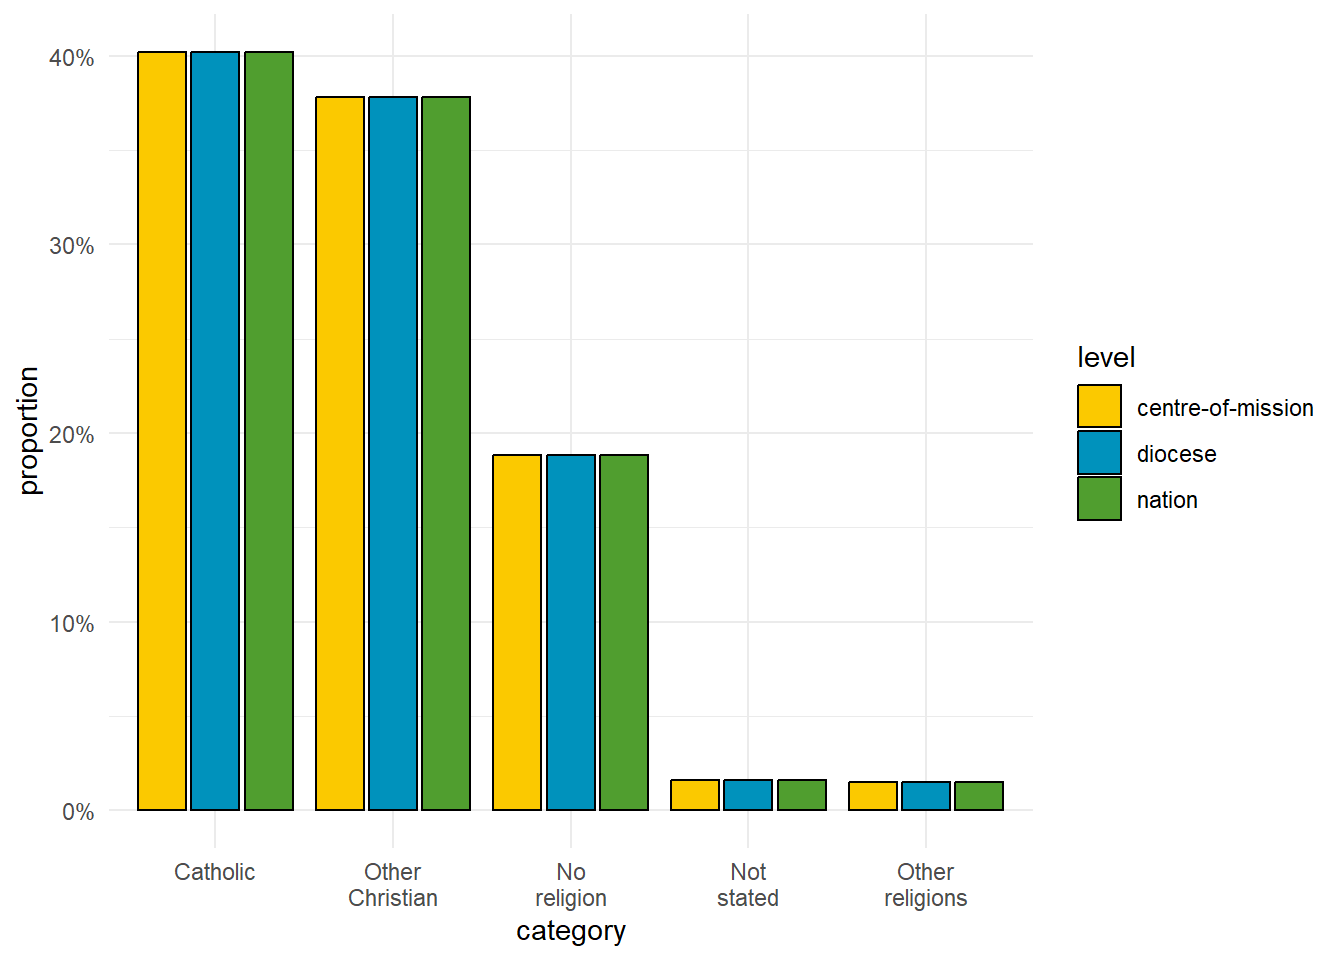
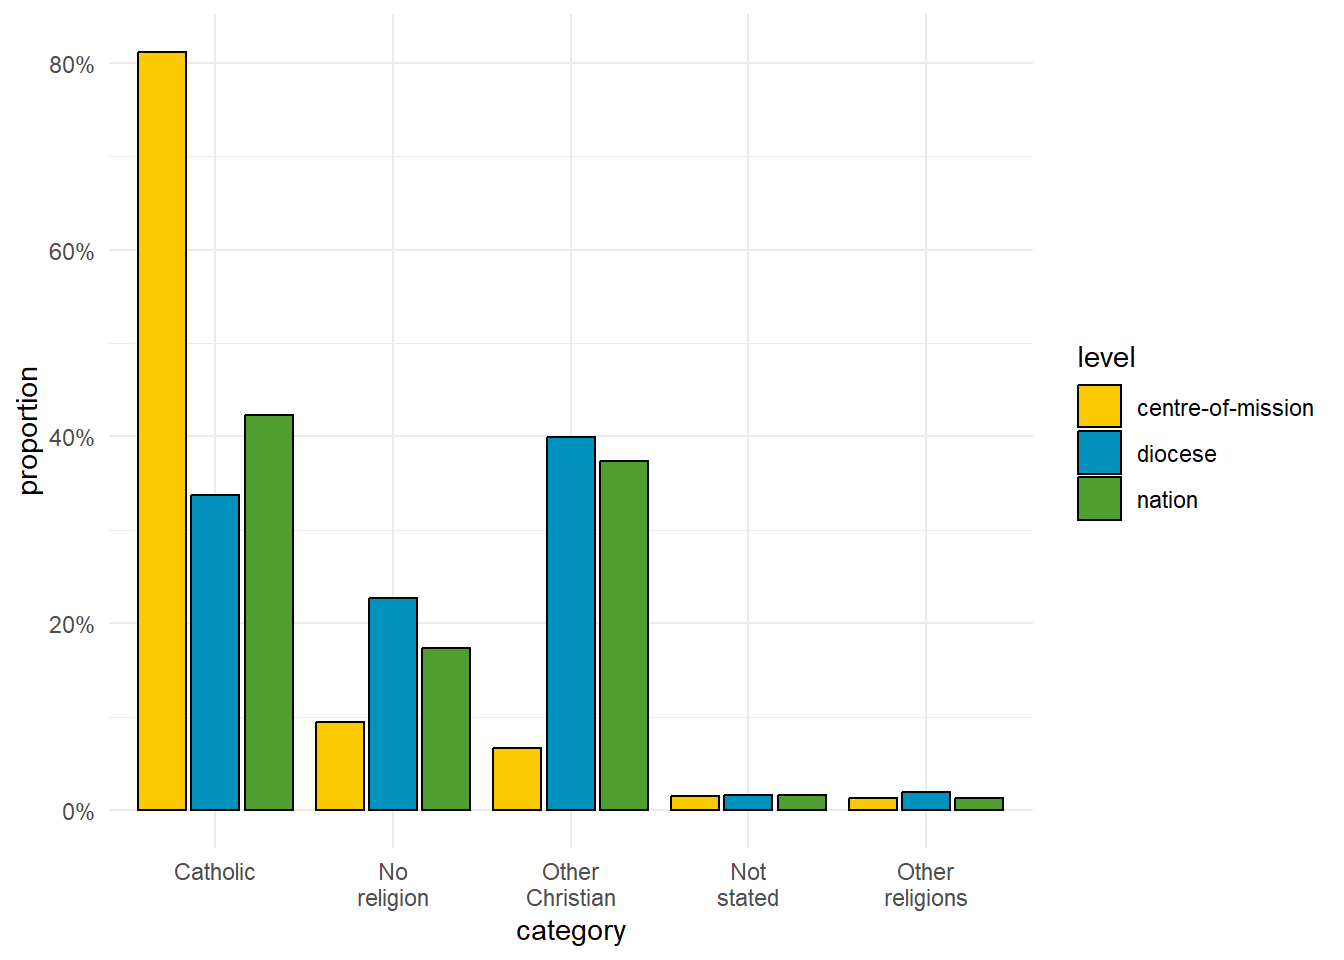
fixing poorly grouped unduplication of religion/ethnicity

diff --git a/R/02_ordering-and-grouping-categories.html b/R/02_ordering-and-grouping-categories.html
@@ -2,7 +2,7 @@
 <html xmlns="http://www.w3.org/1999/xhtml" lang="en" xml:lang="en"><head>
 
 <meta charset="utf-8">
-<meta name="generator" content="quarto-1.3.450">
+<meta name="generator" content="quarto-1.3.353">
 
 <meta name="viewport" content="width=device-width, initial-scale=1.0, user-scalable=yes">
 
@@ -196,11 +196,12 @@ household-composition household-deprivation              religion
 <span id="cb6-36"><a href="#cb6-36" aria-hidden="true" tabindex="-1"></a>              </span>
 <span id="cb6-37"><a href="#cb6-37" aria-hidden="true" tabindex="-1"></a>              out</span>
 <span id="cb6-38"><a href="#cb6-38" aria-hidden="true" tabindex="-1"></a>              }),</span>
-<span id="cb6-39"><a href="#cb6-39" aria-hidden="true" tabindex="-1"></a>          <span class="at">.by =</span> category</span>
+<span id="cb6-39"><a href="#cb6-39" aria-hidden="true" tabindex="-1"></a>          <span class="at">.by =</span> <span class="fu">c</span>(category, level)</span>
 <span id="cb6-40"><a href="#cb6-40" aria-hidden="true" tabindex="-1"></a>  ) <span class="sc">|&gt;</span> </span>
 <span id="cb6-41"><a href="#cb6-41" aria-hidden="true" tabindex="-1"></a>    <span class="fu">group_by</span>(statistic, level) <span class="sc">|&gt;</span> </span>
-<span id="cb6-42"><a href="#cb6-42" aria-hidden="true" tabindex="-1"></a>    <span class="fu">mutate</span>(<span class="at">proportion =</span> count <span class="sc">/</span> <span class="fu">sum</span>(count))</span>
-<span id="cb6-43"><a href="#cb6-43" aria-hidden="true" tabindex="-1"></a>  }</span></code><button title="Copy to Clipboard" class="code-copy-button"><i class="bi"></i></button></pre></div>
+<span id="cb6-42"><a href="#cb6-42" aria-hidden="true" tabindex="-1"></a>    <span class="fu">mutate</span>(<span class="at">proportion =</span> count <span class="sc">/</span> <span class="fu">sum</span>(count)) <span class="sc">|&gt;</span> </span>
+<span id="cb6-43"><a href="#cb6-43" aria-hidden="true" tabindex="-1"></a>    <span class="fu">ungroup</span>()</span>
+<span id="cb6-44"><a href="#cb6-44" aria-hidden="true" tabindex="-1"></a>  }</span></code><button title="Copy to Clipboard" class="code-copy-button"><i class="bi"></i></button></pre></div>
 </div>
 <section id="group-and-order-ethnicity" class="level3">
 <h3 class="anchored" data-anchor-id="group-and-order-ethnicity">Group and order ethnicity</h3>
